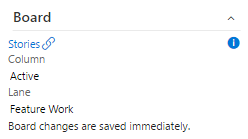
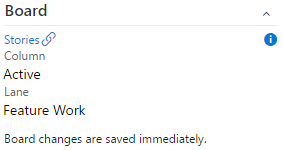
v2.3.69 Left margin

diff --git a/boardGroup.html b/boardGroup.html
@@ -15,11 +15,15 @@
             window.appInsights=appInsights;
     </script>
     <style>
+        .board-group {
+            padding-left: 4px;
+        }
         .board-control div.combo.input-text-box.list.drop:not(:hover):not(.focus) {
             border-color: transparent;
         }
         .board-control div.combo.input-text-box.list.drop {
             width: calc(100% - 1px);
+            margin-left: -4px;
             border-color: #eaeaea;
         }
         .board-control div.combo.input-text-box.list.drop:not(:hover):not(.focus) .drop.bowtie-icon:not(.hover) {
@@ -55,10 +59,14 @@
             background-color: white;
             padding: 8px;
         }
+        .disclaimer {
+            margin-top: 10px;
+        }
 
     </style>
 </head>
 <body>
+    <div class="board-group">
     <span class="bowtie-icon bowtie-status-info board-info" tabindex="0">
             <div class="board-callout">
                 <div>Thank you for using the Board Group Extension!</div>
@@ -68,6 +76,7 @@
             </div>
     </span>
     <div class="board-control"></div>
+    </div>
     <script type="text/javascript">
         // Initialize framework 
         VSS.init({
